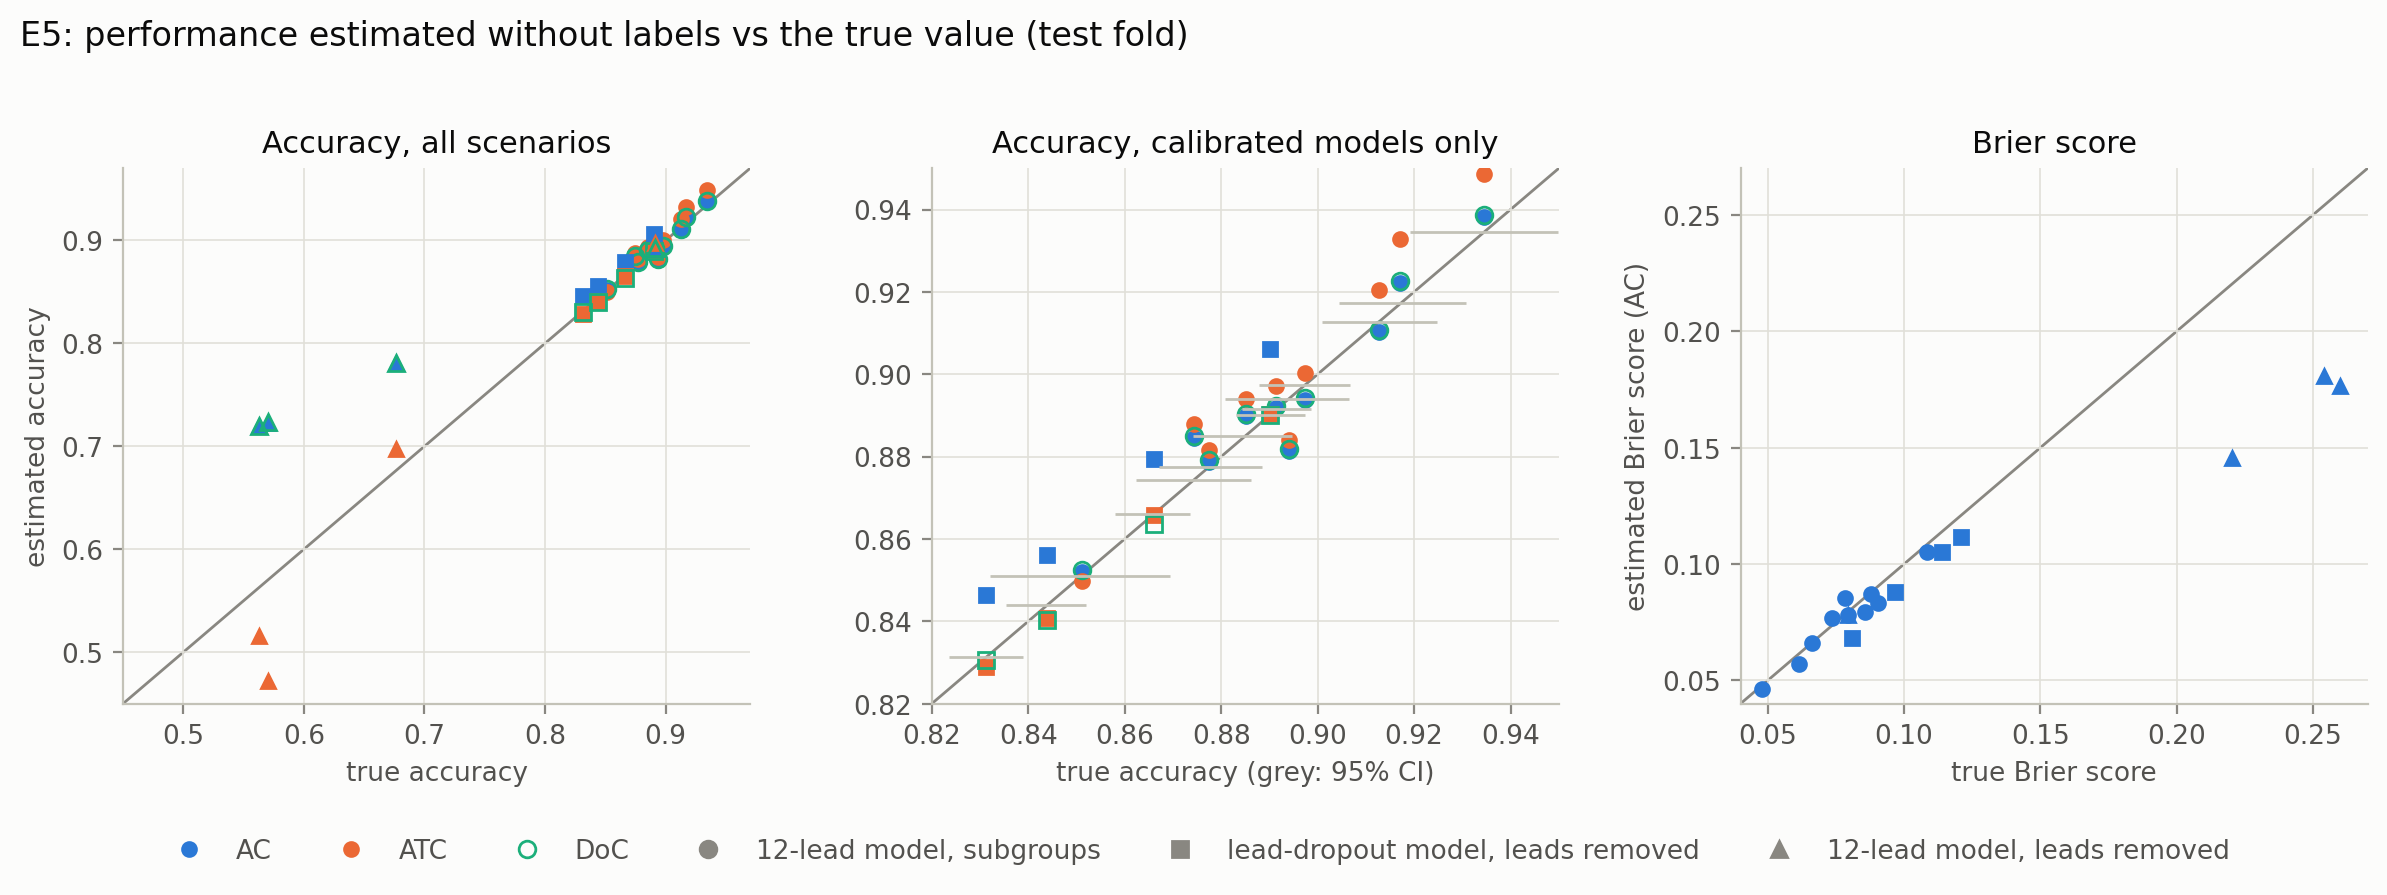
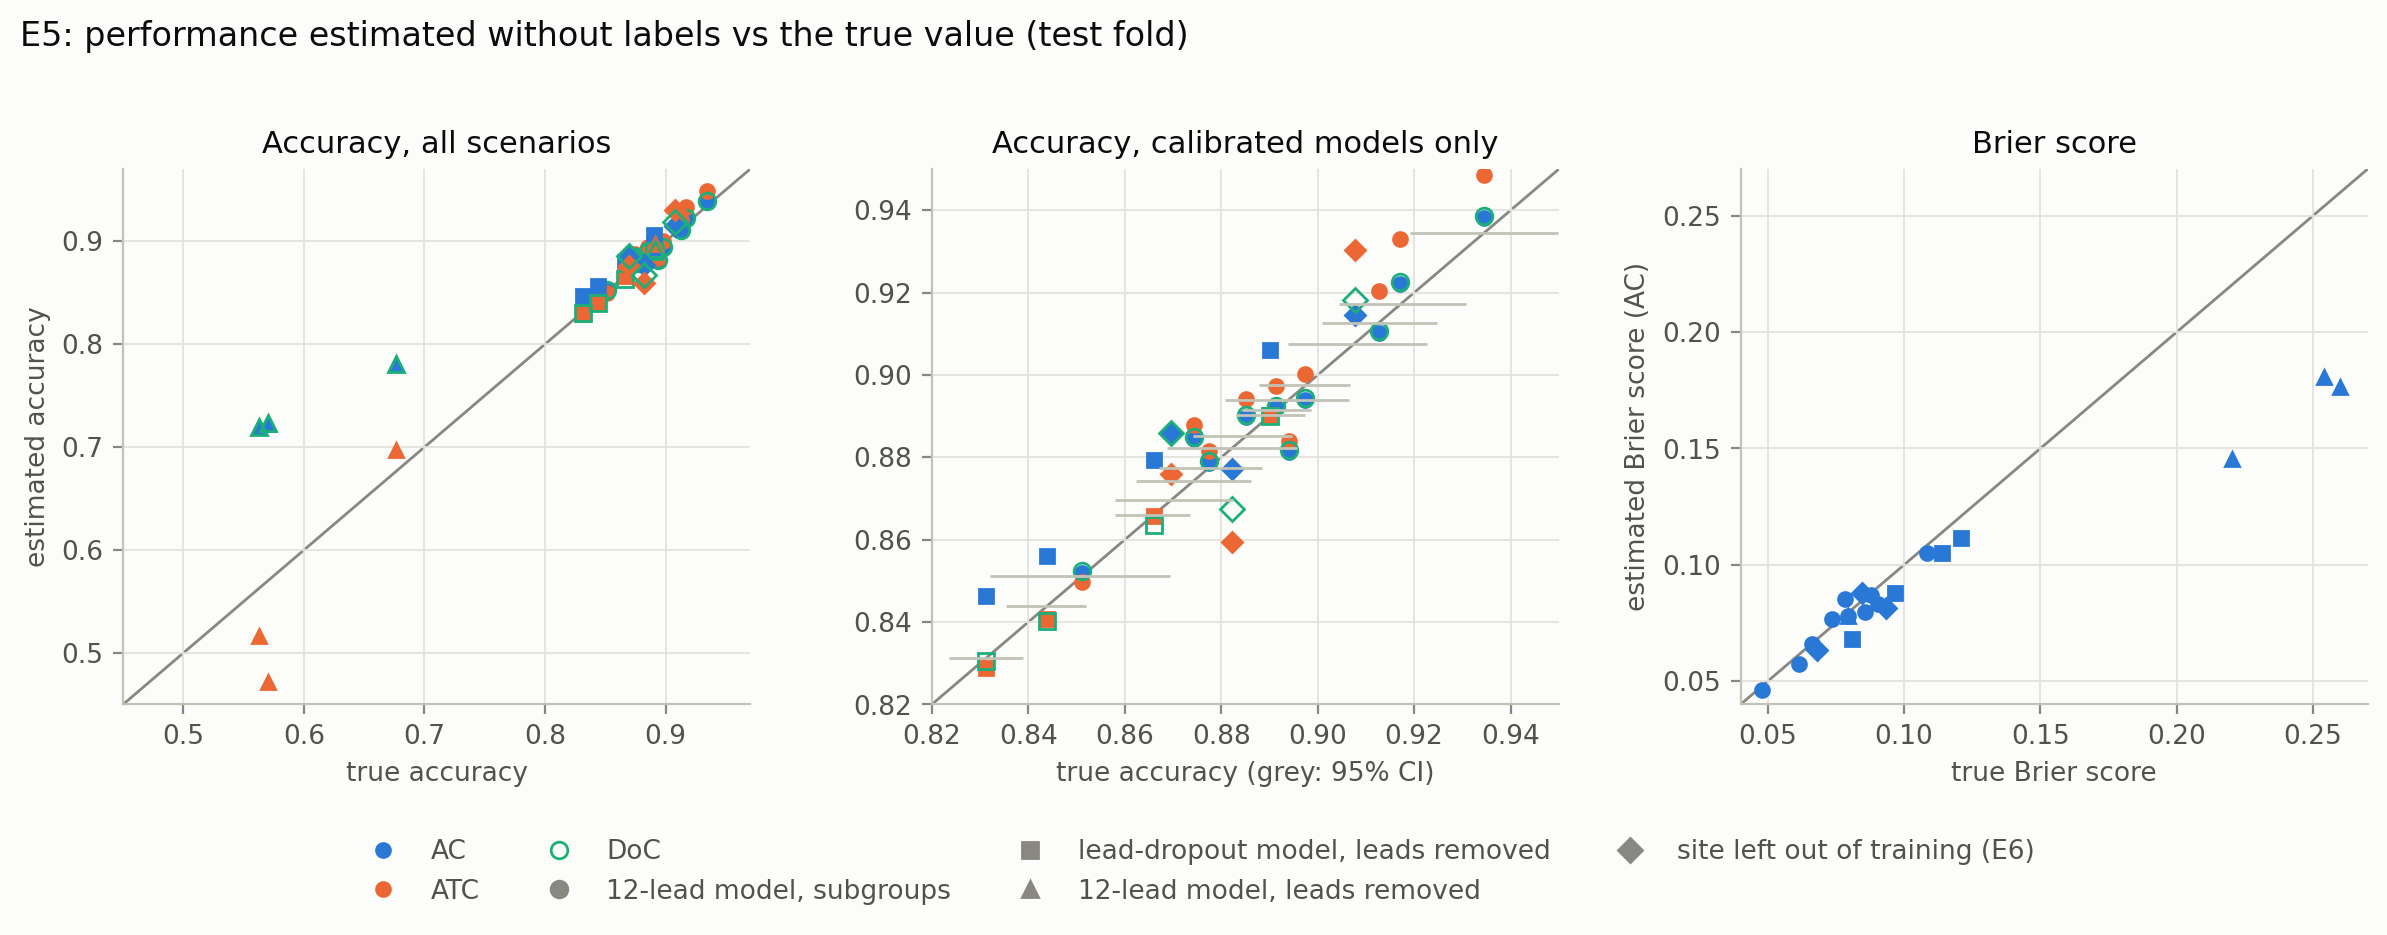
Run E6 leave-one-site-out generalisation

diff --git a/scripts/run_e6.py b/scripts/run_e6.py
@@ -1,0 +1,136 @@
+"""E6: what does it cost to deploy at a hospital site the model never saw, and do E4/E5 notice?
+
+For each of the three big sites s (0, 1, 2):
+- loso:    an ensemble trained and selected without site s (folds 1-8 / fold 9, site s removed)
+- control: an ensemble trained on a random subset of folds 1-8 of the same size as loso's, all sites
+           included, selected on the full fold 9. loso - control isolates "never saw the site" from
+           "trained on less data".
+Both are compared with E1 on the fold-10 records of site s and of all other sites. Each restricted data
+set is re-standardised with its own training statistics, as a model trained without site s would be.
+Then E4's detectors (reference: loso's fold 9 without s; deployment: fold-10 site s) and E5's estimators
+are run on the held-out site.
+Writes results/e6_sites.csv, e6_diffs.csv, e6_detection.csv, e6_labelfree.csv.
+"""
+
+import argparse
+from pathlib import Path
+
+import numpy as np
+import pandas as pd
+from sklearn.decomposition import PCA
+
+from ptbxl_reliable.data import prepare_data, restrict
+from ptbxl_reliable.evaluate import evaluate, load_preds, save_preds
+from ptbxl_reliable.labelfree import estimate_all
+from ptbxl_reliable.metrics import brier, macro_auroc, model_diff_ci
+from ptbxl_reliable.shift import detection_rates
+from ptbxl_reliable.train import TrainConfig, extract_features, predict_ensemble, train_ensemble
+from ptbxl_reliable.uncertainty import ensemble_mean
+
+ROOT = Path(__file__).resolve().parents[1]
+RESULTS = ROOT / "results"
+SITES = [0, 1, 2]
+SIZES = [50, 100, 200, 500, 1000]  # as E4
+N_REPS = 100
+N_PERM = 200
+PCA_DIMS = 32
+SITE_COLUMNS = ["macro_auroc", "macro_auroc_lo", "macro_auroc_hi", "brier", "brier_lo", "brier_hi", "ece"]
+
+
+def main() -> None:
+    parser = argparse.ArgumentParser(description=__doc__, formatter_class=argparse.RawDescriptionHelpFormatter)
+    parser.add_argument("--device", default="cuda:1")
+    parser.add_argument("--n-boot", type=int, default=1000)
+    args = parser.parse_args()
+
+    data = prepare_data(ROOT / "data" / "ptb-xl")
+    site = data.meta["site"].to_numpy()  # NaN (no site recorded) never equals s, so counts as "other"
+    patients = data.meta["patient_id"].to_numpy()
+    train, val, test = data.idx["train"], data.idx["val"], data.idx["test"]
+
+    e1 = {}
+    for split in ["val", "test"]:
+        ecg_ids, e1[split] = load_preds(RESULTS / "preds" / f"e1_{split}.npz")
+        if not np.array_equal(ecg_ids, data.meta.index[data.idx[split]].to_numpy()):
+            raise ValueError(f"e1_{split}: stored predictions are not in {split}-split order")
+
+    site_rows, diff_rows, detection_tables, labelfree_rows = [], [], [], []
+    for s in SITES:
+        loso_train, loso_val = train[site[train] != s], val[site[val] != s]
+        rng = np.random.default_rng(s)
+        control_train = np.sort(rng.choice(train, size=len(loso_train), replace=False))
+        print(f"site {s}: loso trains on {len(loso_train)} records (control: same number, all sites)")
+
+        probs = {"e1": e1["test"]}
+        loso_val_probs = loso_data = loso_models = None
+        for name, train_idx, val_idx in [("control", control_train, val), ("loso", loso_train, loso_val)]:
+            sub = restrict(data, train_idx, val_idx)
+            models = train_ensemble(
+                TrainConfig(lead_mode="all12", device=args.device), sub,
+                ckpt_dir=ROOT / "checkpoints" / f"e6_{name}_site{s}",
+            )
+            for split, idx in [("val", val_idx), ("test", test)]:
+                split_probs = predict_ensemble(models, sub.x[idx], "all12", device=args.device)
+                save_preds(RESULTS / "preds" / f"e6_{name}_site{s}_{split}.npz", data.meta.index[idx].to_numpy(),
+                           split_probs)
+                if split == "test":
+                    probs[name] = split_probs
+                elif name == "loso":
+                    loso_val_probs = split_probs
+            if name == "loso":
+                loso_data, loso_models = sub, models
+            del sub
+
+        at_site = site[test] == s
+        for model, model_probs in probs.items():
+            for eval_set, keep in [("site", at_site), ("other_sites", ~at_site)]:
+                result = evaluate(data.y[test][keep], model_probs[:, keep], patients[test][keep], n_boot=args.n_boot)
+                site_rows.append({"site": s, "model": model, "eval_set": eval_set, "n": int(keep.sum()),
+                                  **{k: result[k] for k in SITE_COLUMNS}})
+
+        y_site, pid_site = data.y[test][at_site], patients[test][at_site]
+        mean = {model: ensemble_mean(model_probs[:, at_site]) for model, model_probs in probs.items()}
+        for a, b in [("loso", "control"), ("loso", "e1"), ("control", "e1")]:
+            for metric_name, metric in [("macro_auroc", macro_auroc), ("brier", brier)]:
+                point, lo, hi = model_diff_ci(metric, y_site, mean[a], mean[b], pid_site, n_boot=args.n_boot)
+                diff_rows.append({"site": s, "contrast": f"{a} - {b}", "metric": metric_name,
+                                  "diff": point, "lo": lo, "hi": hi})
+
+        # E4 on the held-out site: the reference is what loso was checked on (fold 9 without s).
+        ref_p, pool_p = ensemble_mean(loso_val_probs), ensemble_mean(probs["loso"])
+        feats = {split: extract_features(loso_models[0], loso_data.x[idx], "all12", device=args.device)
+                 for split, idx in [("val", loso_val), ("test", test)]}
+        pca = PCA(n_components=PCA_DIMS, random_state=0).fit(feats["val"])
+        ref_z, pool_z = pca.transform(feats["val"]), pca.transform(feats["test"])
+        common = dict(sizes=SIZES, n_reps=N_REPS, device=args.device, n_perm=N_PERM, seed=s)
+        detection_tables += [
+            detection_rates(ref_p, ref_z, pool_p[~at_site], pool_z[~at_site], np.zeros((~at_site).sum(), bool),
+                            [0.0], **common).assign(site=s, shift="none (other sites)"),
+            detection_rates(ref_p, ref_z, pool_p[at_site], pool_z[at_site], np.ones(at_site.sum(), bool),
+                            [1.0], **common).assign(site=s, shift="held-out site"),
+        ]
+
+        # E5 on the held-out site: estimators fitted on loso's fold 9 without s.
+        row = estimate_all(y_site, pool_p[at_site], pid_site, data.y[loso_val], ref_p, n_boot=args.n_boot)
+        labelfree_rows.append({"scenario": f"heldout_site{s}", "model": "e6_loso", **row})
+        del loso_data, loso_models
+
+    sites = pd.DataFrame(site_rows)
+    diffs = pd.DataFrame(diff_rows)
+    detection = pd.concat(detection_tables)[["site", "shift", "lam", "batch_size", "detector", "detection_rate",
+                                             "n_reps"]]
+    labelfree = pd.DataFrame(labelfree_rows)
+    sites.to_csv(RESULTS / "e6_sites.csv", index=False)
+    diffs.to_csv(RESULTS / "e6_diffs.csv", index=False)
+    detection.to_csv(RESULTS / "e6_detection.csv", index=False)
+    labelfree.to_csv(RESULTS / "e6_labelfree.csv", index=False)
+
+    print(sites.round(4).to_string(index=False))
+    print(diffs.round(4).to_string(index=False))
+    print(detection.pivot_table(index=["site", "shift", "detector"], columns="batch_size",
+                                values="detection_rate").round(2))
+    print(labelfree.round(4).to_string(index=False))
+
+
+if __name__ == "__main__":
+    main()

diff --git a/scripts/make_figures.py b/scripts/make_figures.py
@@ -202,6 +202,10 @@ def e5_labelfree() -> None:
     table = pd.read_csv(RESULTS / "e5_labelfree.csv")
     groups = [("e1", "o", "12-lead model, subgroups"), ("e2a_dropout", "s", "lead-dropout model, leads removed"),
               ("e2a_naive", "^", "12-lead model, leads removed")]
+    held_out = RESULTS / "e6_labelfree.csv"  # E6 adds the models that never saw the site they are tested on
+    if held_out.exists():
+        table = pd.concat([table, pd.read_csv(held_out)])
+        groups.append(("e6_loso", "D", "site left out of training (E6)"))
     methods = [("ac_acc", "AC"), ("atc_acc", "ATC"), ("doc_acc", "DoC")]
 
     fig, (ax_all, ax_zoom, ax_brier) = plt.subplots(1, 3, figsize=(12, 3.9))
@@ -231,13 +235,71 @@ def e5_labelfree() -> None:
                  ha="left", color=INK, fontsize=12)
     handles, labels = ax_all.get_legend_handles_labels()
     fig.tight_layout()
-    fig.legend(handles, labels, loc="upper center", bbox_to_anchor=(0.5, 0.0), ncol=6)
+    fig.legend(handles, labels, loc="upper center", bbox_to_anchor=(0.5, 0.0), ncol=4)
     _save(fig, "e5_labelfree.png")
+
+
+def e6_sites() -> None:
+    sites = pd.read_csv(RESULTS / "e6_sites.csv").query("eval_set == 'site'")
+    diffs = pd.read_csv(RESULTS / "e6_diffs.csv").query("contrast == 'loso - control'")
+    detection = pd.read_csv(RESULTS / "e6_detection.csv")
+    models = [("e1", "E1 (all training data)"), ("control", "size-matched control"),
+              ("loso", "site left out of training")]
+    site_ids = sorted(sites["site"].unique())
+    y = np.arange(len(site_ids))[::-1]
+
+    fig, (ax_auc, ax_brier, ax_det) = plt.subplots(1, 3, figsize=(13, 3.8), gridspec_kw={"wspace": 0.3})
+    for k, (model, label) in enumerate(models):
+        rows = sites[sites["model"] == model].set_index("site").reindex(site_ids)
+        offset = 0.2 * (1 - k)
+        for ax, metric in [(ax_auc, "macro_auroc"), (ax_brier, "brier")]:
+            err = [rows[metric] - rows[f"{metric}_lo"], rows[f"{metric}_hi"] - rows[metric]]
+            ax.errorbar(rows[metric], y + offset, xerr=err, fmt="o", color=SERIES[k], markersize=5.5,
+                        elinewidth=1.5, label=label)
+    n = sites.query("model == 'e1'").set_index("site")["n"]
+    for ax, metric, title in [(ax_auc, "macro_auroc", "Discrimination on the held-out site"),
+                              (ax_brier, "brier", "Calibration on the held-out site")]:
+        d = diffs[diffs["metric"] == metric].set_index("site")
+        for s, row_y in zip(site_ids, y):
+            # Left out minus control, written above each site's three intervals.
+            ax.text(0.01, row_y + 0.38, f"left out − control: {d.loc[s, 'diff']:+.3f} "
+                    f"[{d.loc[s, 'lo']:+.3f}, {d.loc[s, 'hi']:+.3f}]", transform=ax.get_yaxis_transform(),
+                    color=INK_2, fontsize=8.5)
+        ax.set_yticks(y, [f"site {s}\n(n={n[s]})" for s in site_ids])
+        ax.set_ylim(y.min() - 0.45, y.max() + 0.6)
+        ax.grid(axis="y", visible=False)
+        ax.set_title(title, loc="left")
+    ax_auc.set(xlabel="macro-AUROC (95% CI)")
+    ax_brier.set(xlabel="Brier score (95% CI, lower is better)")
+
+    for k, s in enumerate(site_ids):
+        rows = detection[(detection["site"] == s) & (detection["shift"] == "held-out site")]
+        for detector, style in [("mmd_features", "-"), ("ks_outputs", "--")]:
+            line = rows[rows["detector"] == detector]
+            ax_det.plot(line["batch_size"], line["detection_rate"], style, marker="o", markersize=3.5,
+                        color=[INK, INK_2, MUTED][k], label=f"site {s}" if detector == "mmd_features" else None)
+    false_alarm = detection[detection["shift"] != "held-out site"].groupby("batch_size")["detection_rate"].max()
+    ax_det.plot(false_alarm.index, false_alarm.values, ":", color=AXIS, label="no shift (other sites)")
+    ax_det.plot([], [], "-", color=INK_2, label="solid: features (MMD)")
+    ax_det.plot([], [], "--", color=INK_2, label="dashed: outputs (KS)")
+    sizes = sorted(detection["batch_size"].unique())
+    ax_det.set_xscale("log")
+    ax_det.set_xticks(sizes, [str(s) for s in sizes])
+    ax_det.minorticks_off()
+    ax_det.set(xlabel="ECGs per deployment batch", ylabel="share of batches flagged", ylim=(-0.03, 1.03))
+    ax_det.set_title("Is the new site detected? (E4 tests)", loc="left")
+    ax_det.legend(loc="center right", fontsize=8)
+
+    fig.suptitle("E6: a hospital site the model never saw (test fold, records of the held-out site)",
+                 x=0.01, y=1.04, ha="left", color=INK, fontsize=12)
+    handles, labels = ax_auc.get_legend_handles_labels()
+    fig.legend(handles, labels, loc="upper center", bbox_to_anchor=(0.5, -0.02), ncol=3)
+    _save(fig, "e6_sites.png")
 
 
 def main() -> None:
     for make in [e1_reliability, e2a_leads, e2a_risk_coverage, e2b_metadata, e3_subgroups, e4_detection,
-                 e5_labelfree]:
+                 e5_labelfree, e6_sites]:
         make()
         print("wrote", make.__name__)
 

diff --git a/README.md b/README.md
@@ -9,6 +9,7 @@ This repository studies those two questions on PTB-XL, a public dataset of 21,79
 - **Calibration:** reliability diagrams, ECE and the Brier score.
 - **Subgroup reliability:** discrimination and calibration by sex and age, with patient-level bootstrap tests of the gaps between groups (E3).
 - **Monitoring after deployment:** whether a statistical test notices that the patient population has changed (E4), and whether the model's performance can be estimated without labels (E5).
+- **A hospital the model never saw:** the cost of deploying at a recording site left out of training, separated from the cost of having less training data, and whether E4 and E5 notice (E6).
 
 Every model performance number is computed on the official PTB-XL test fold. Confidence intervals are 95% intervals from a bootstrap that resamples patients, not individual ECGs, because one patient can have several recordings.
 
@@ -160,6 +161,32 @@ The target is the accuracy of the 0.5-threshold decision, averaged over the five
 - **This tells the harmful shift from the harmless one in E4.** Estimated accuracy is 0.852 for patients aged 80+ (true 0.851) and 0.922 for site 0 (true 0.917), so a monitor combining E4 and E5 would flag both shifts but report a drop only for the first.
 - **The lead-dropout model stays estimable when leads are removed.** ATC and DoC are within 0.004 of the true accuracy for every lead setup. AC over-estimates by a near-constant 0.012–0.016, because this model is slightly over-confident already on 12 leads; ATC and DoC remove that offset through the validation labels.
 - **For the 12-lead model on fewer leads, every estimate breaks.** On lead I its true accuracy is 0.563; AC and DoC estimate 0.72, ATC 0.52, and the estimated Brier score is 0.18 against a true 0.25. AC and DoC still register a fall from 0.89, but only half of it, and ATC errs in both directions (0.47 against a true 0.57 on lead II). As in E2a, the model's confidence is only informative on the kind of input it was trained for.
+
+### E6: a hospital site the model never saw
+
+What does it cost to deploy at a hospital that contributed no training data, and do the monitoring tools of E4 and E5 catch it?
+
+PTB-XL records which site each ECG comes from. For each of the three large sites (8,671, 6,242 and 5,019 ECGs), two new ensembles are trained:
+
+- **Site left out:** trained on folds 1–8 and selected on fold 9, both without that site. Its signals are standardised with statistics from its own training set.
+- **Size-matched control:** trained on a random subset of folds 1–8 of the same size, all sites included, and selected on the full fold 9. Leaving a site out also removes training data (45% of it, for site 0), so the contrast that measures "never saw the site" is left-out minus control, not left-out minus E1.
+
+All three models (E1, control, left-out) are evaluated on the test-fold ECGs of the held-out site (483, 598 and 867 records). Differences between two models on the same records get a paired patient bootstrap.
+
+![E6 held-out sites](figures/e6_sites.png)
+
+| Held-out site | Left out − control, macro-AUROC | Left out − control, Brier | Control − E1, macro-AUROC |
+|---|---|---|---|
+| Site 0 | −0.006 [−0.015, +0.002] | +0.006 [+0.003, +0.009] | −0.008 [−0.014, −0.002] |
+| Site 1 | −0.006 [−0.011, −0.001] | +0.005 [+0.002, +0.008] | −0.004 [−0.008, +0.001] |
+| Site 2 | −0.005 [−0.009, −0.001] | +0.001 [−0.001, +0.003] | −0.002 [−0.005, +0.002] |
+
+- **Never seeing a site costs about 0.005 macro-AUROC.** The loss is consistent across the three sites and excludes zero for two of them; the Brier score is worse by 0.005–0.006 at sites 0 and 1. On the other sites the left-out model is as good as the control, so the cost is specific to the new site.
+- **Less training data costs about as much again.** For site 0, whose removal takes away 45% of the training set, the control already loses 0.008 against E1; the left-out model's total loss of 0.014 is roughly half data, half site.
+- **Differences between sites are larger than either cost.** Even E1, which trained on all three sites, reaches 0.909 on site 2 against 0.941 on the other sites. Which hospital a model is tested at matters more here than whether it trained there.
+- **The new site is detected quickly.** With the left-out model's fold 9 as reference, the E4 tests flag every batch from site 0 already at 50 ECGs, site 2 at 100 ECGs (feature test; 94% for the output test) and site 1 at 200 ECGs (93–96%). Batches from the sites the model did see are flagged 1–8% of the time; this rises to 10–14% for the largest batches in the site-2 setting, where batches of 500–1,000 ECGs are drawn with replacement from only 1,291 records and repeat many of them.
+- **Label-free estimates are less exact on an unseen site.** The mean absolute error of the E5 estimators rises to 0.009 (AC), 0.017 (ATC) and 0.014 (DoC), against 0.004–0.008 for subgroups of sites the model saw (diamonds in the E5 figure). At site 2 the left-out model is over-confident: AC over-estimates its accuracy by 0.016 and under-estimates its Brier score (0.082 against 0.093), so the small loss there would go unnoticed without labels.
+- **Site 0 is also the site that almost never records height (E2b).** A model deployed there would meet both problems at once: a site it never saw (E6) and missing metadata (E2b).
 
 ## Limitations and next steps
 
